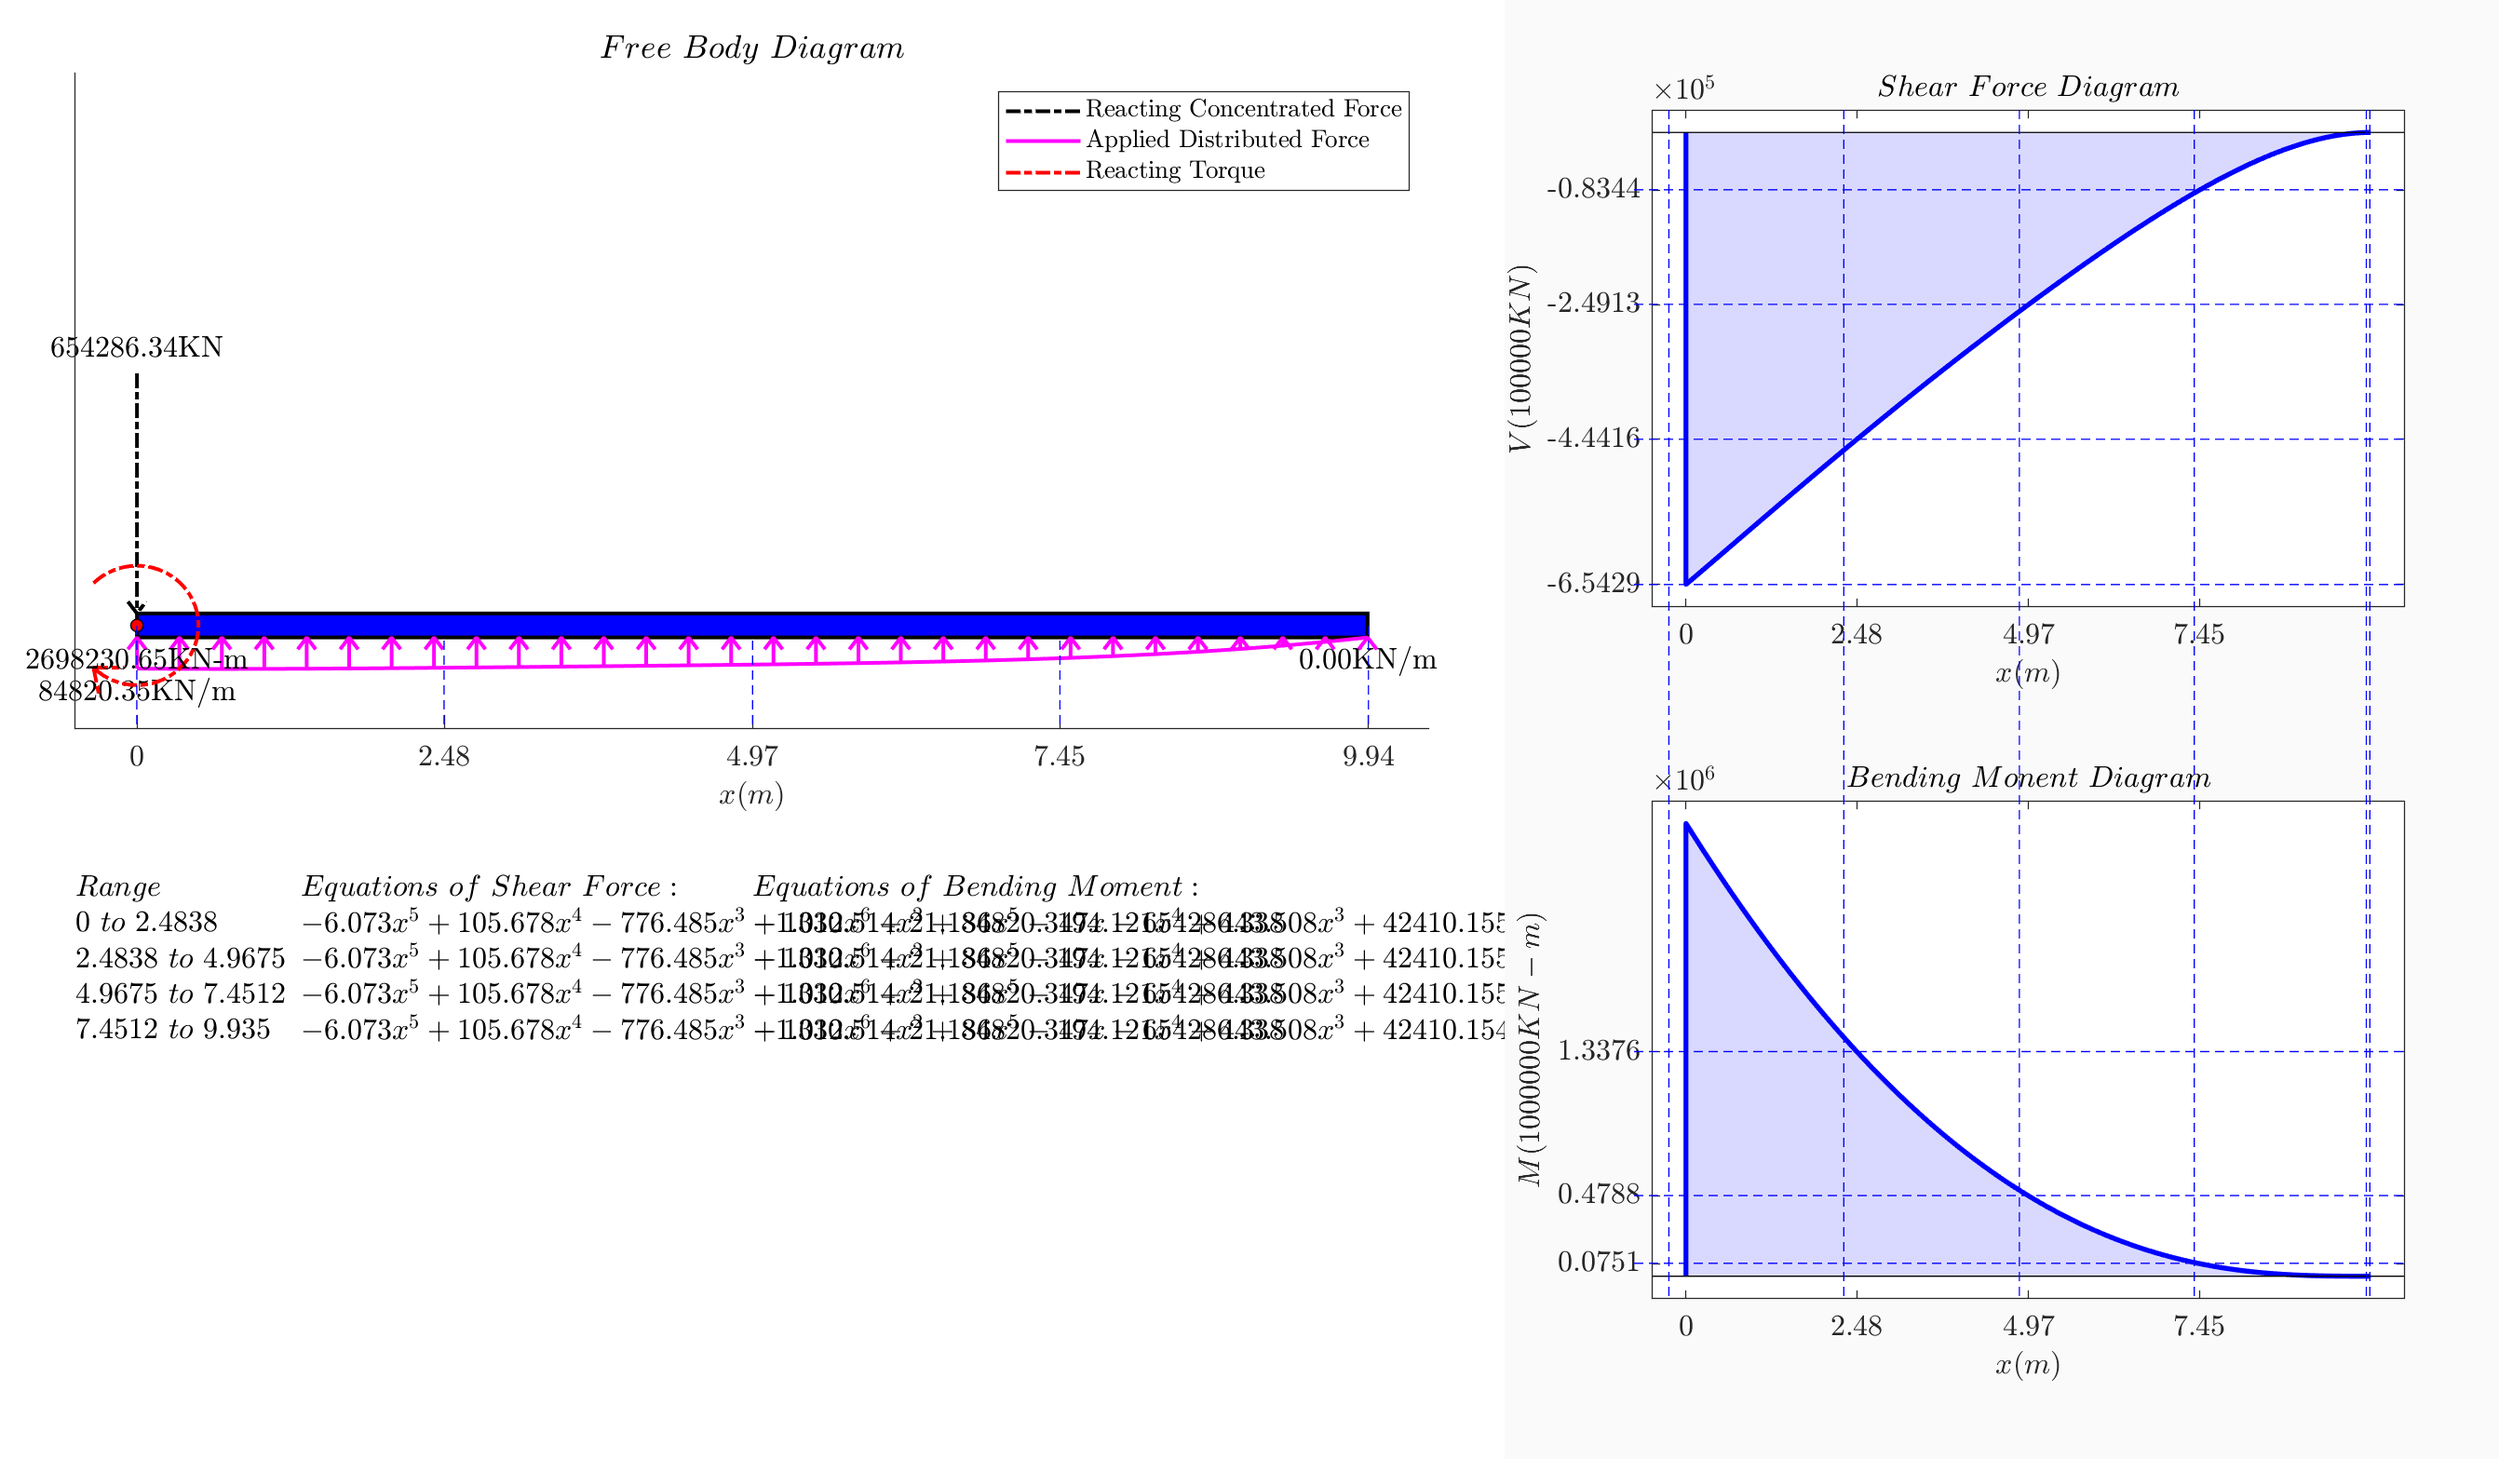
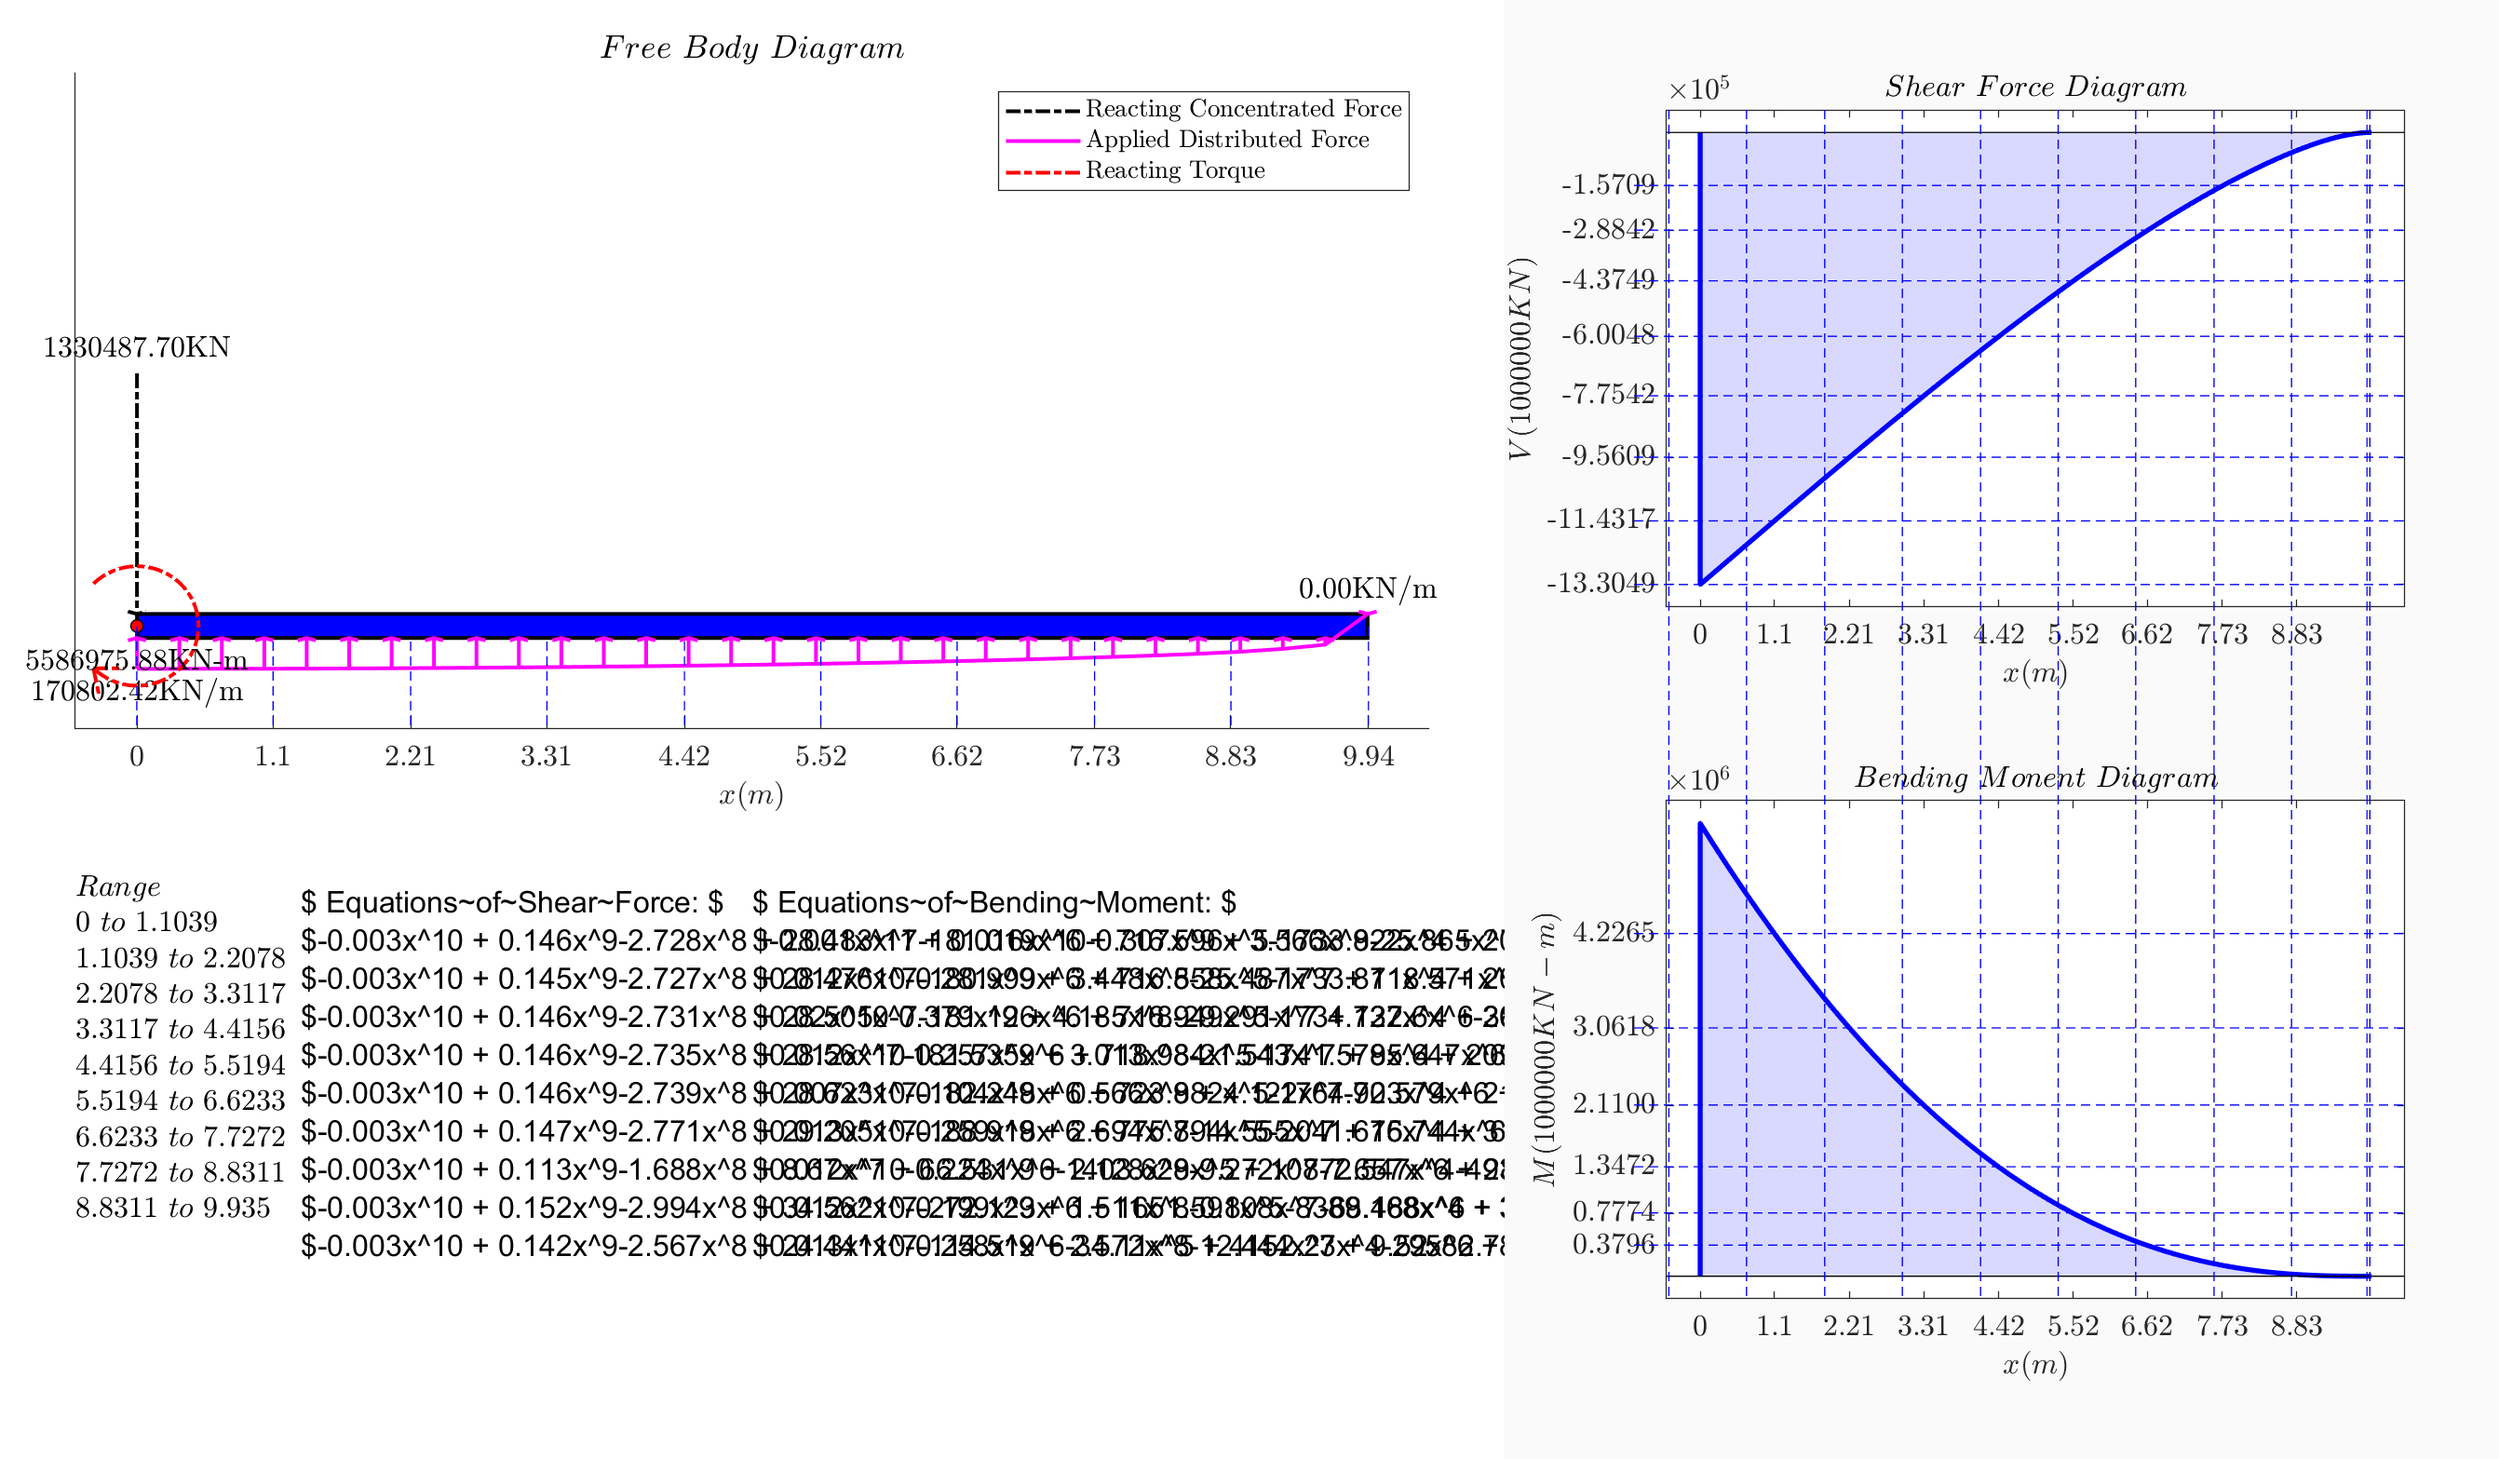
update on optimizer

diff --git a/sims.m b/sims.m
@@ -8,11 +8,11 @@ addpath(genpath('./SFBM'))
 %% Parameters
 ac;
 wing;
-% htail;
+%htail;
 
 %% Discretisation
 
-n = 5;
+n = 10;
 y = linspace(0, b/2, n);
 
 % Fuel y - assume 10% b penalty
@@ -23,6 +23,19 @@ if strcmp(componentname,'wing')
 elseif strcmp(componentname,'htail')
     load = Lift_perSpan(y, b/2, MTOW, f, n) + struct_weight(tc, y, Sw, t, b/2, Vw, Ww);
 end
+
+% plot total lift
+lifttest = Lift_perSpan(y, b/2, MTOW, f, n);
+figure(105)
+plot(y,lifttest);
+xlabel('Span [m]'); ylabel('Lift [N]')
+improvePlot;   % --- how do I run this?
+% calculate just lift force --- this gives value for both wings..??
+Lift_total_N = trapz(y,lifttest);
+% calculate just weight
+weighttest = struct_weight(tc, y, Sw, t, b/2, Vw, Ww);
+weight_total_N = trapz(y,weighttest);
+
 
 %% Torsion
 % wing case

diff --git a/optim_skin.m b/optim_skin.m
@@ -18,7 +18,7 @@ objf = @objfun;
 % constraint function, nested below
 cfun = @nlcon;
 % lower and upper bounds
-lb = [1;     % min thickness of tn [mm] --> from Crit. buckiling
+lb = [4.3;     % min thickness of tn [mm] --> from Crit. buckiling
       1;     % min thickness of tr [mm] (free)
       1];    % min thickness of tw [mm] --> from Bending moment!
 ub = 10^3 * ones(3,1); % set max skin thickness [mm]

diff --git a/improvePlot.m b/improvePlot.m
@@ -1,8 +1,8 @@
 function [] = improvePlot()
     %%%%%%%%%%%%%%%%%%%%%%%%%%%%%%%%%%%%%%%%%%%%%%%%%%%%%%%%%%%%%%%%%%%%%%%
     % Plot parameters
-    plot_width_in_px = 800;
-    plot_height_in_px = 800;
+    plot_width_in_px = 600;
+    plot_height_in_px = 600;
     
     marker_size=15;
     marker_line_width=2.5;
